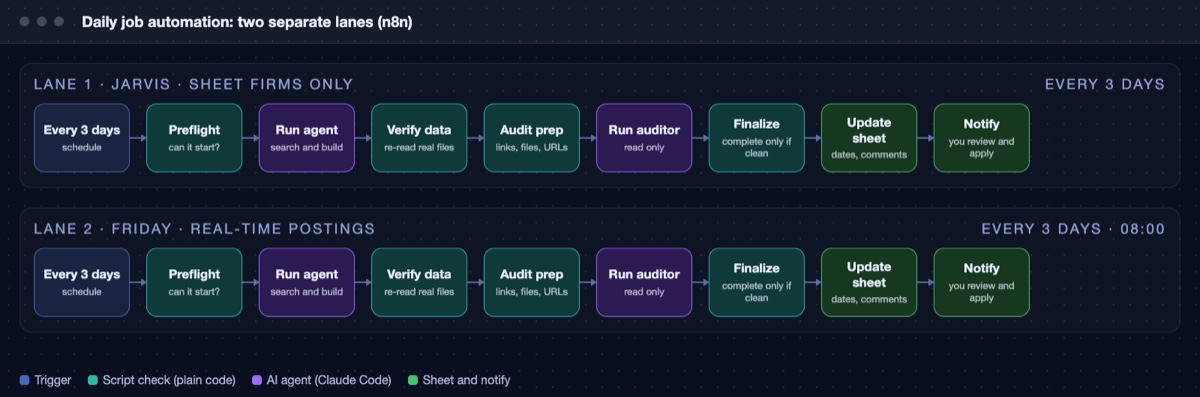
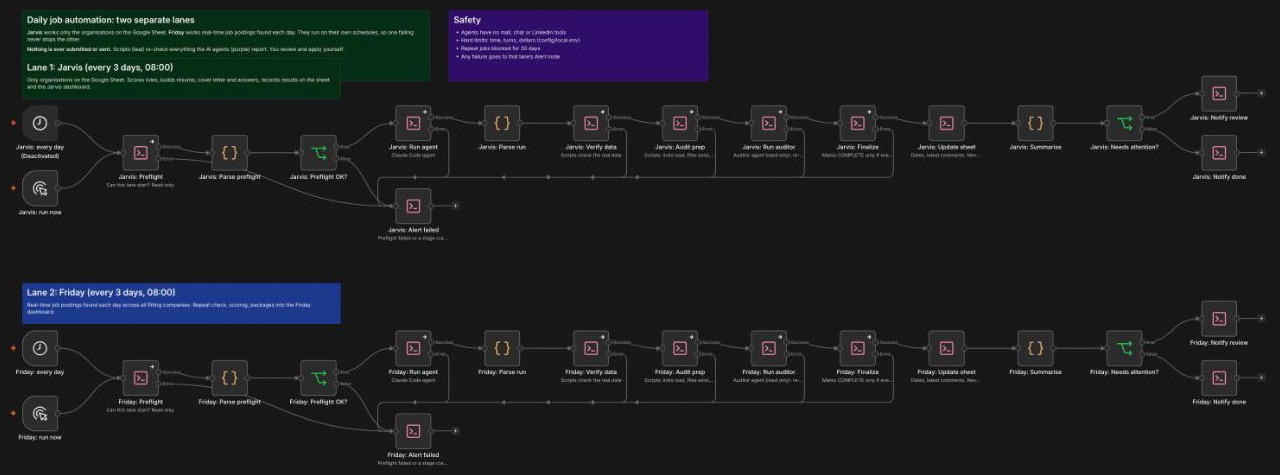
Use real n8n workflow screenshot in automation section

diff --git a/index.html b/index.html
@@ -698,7 +698,7 @@ footer{border-top:1px solid var(--line);padding:28px 0;color:var(--ink-2);font-s
     </div>
     <div class="frame">
       <div class="win"><div class="bar"><i></i><i></i><i></i></div>
-        <div class="shots" style="aspect-ratio:1200/397"><img class="on" src="img/automation-flow.jpg" alt="The n8n workflow: two separate lanes, Jarvis and Friday, each with a preflight check, an AI agent, data verification, a read-only auditor, a finalize step, a Google Sheet update and a notification" width="1200" height="397"></div></div>
+        <div class="shots" style="aspect-ratio:1280/475"><img class="on" src="img/automation-flow.jpg" alt="The n8n workflow: two separate lanes, Jarvis and Friday, each with a preflight check, an AI agent, data verification, a read-only auditor, a finalize step, a Google Sheet update and a notification" width="1280" height="475"></div></div>
       <p class="cap">The workflow: two independent lanes, with plain code checks (teal) around the Claude agents (purple).</p>
     </div>
   </div>
